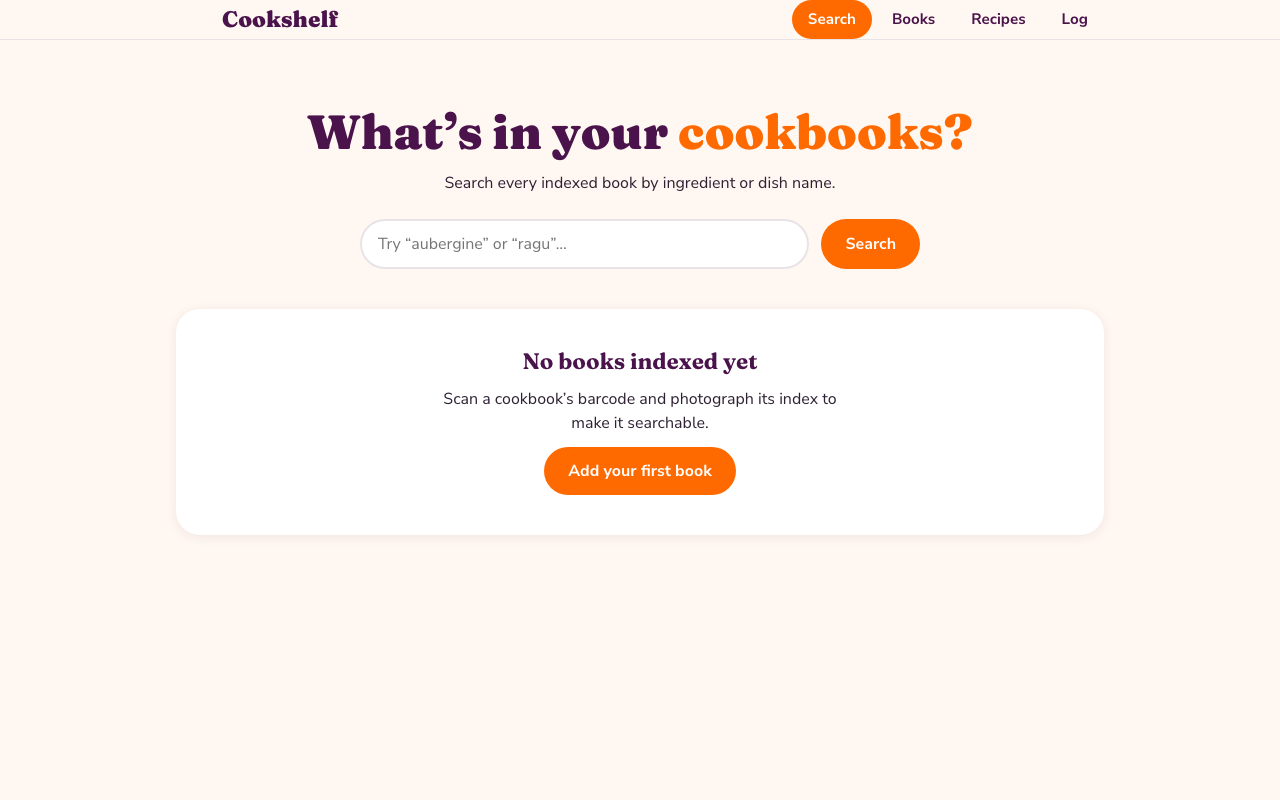
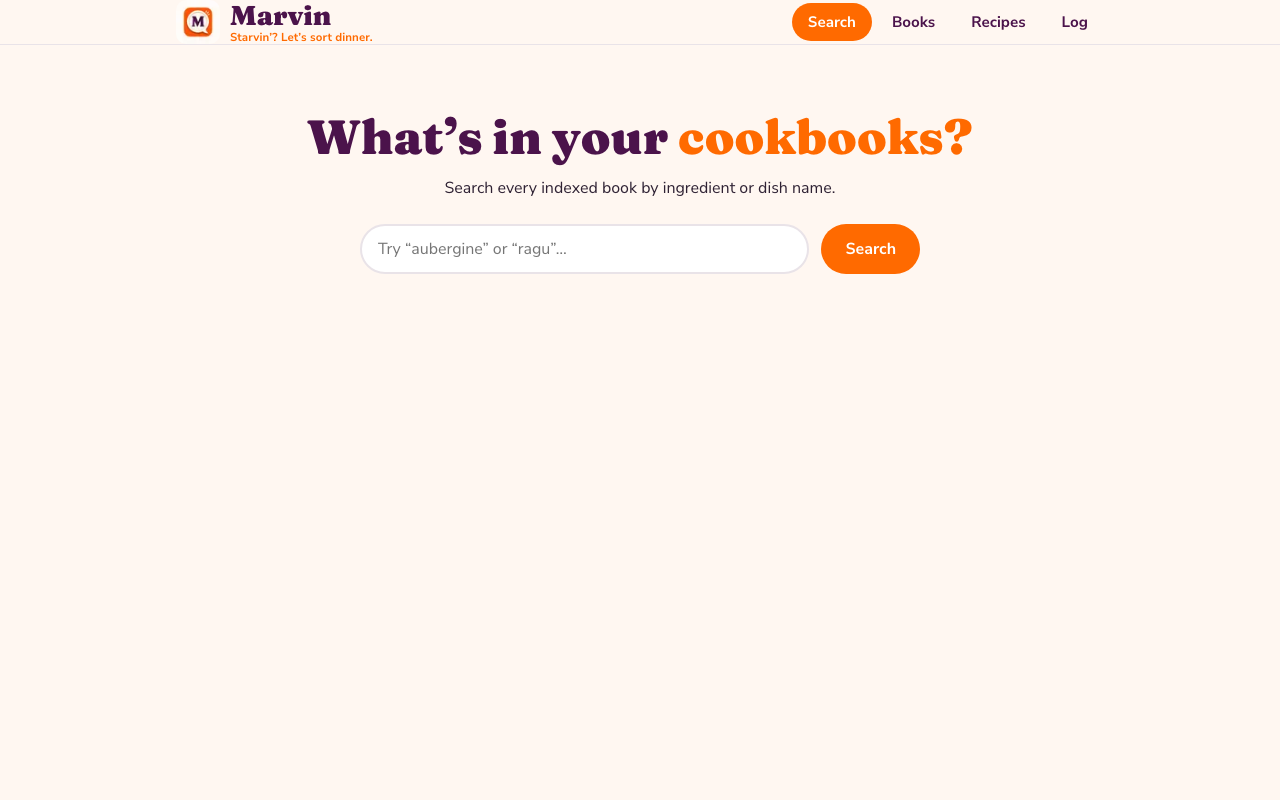
Make Marvin brand more prominent in header with tagline; bump SW cache
🤖 Generated with [Claude Code](https://claude.ai/code)

diff --git a/components/Nav.module.css b/components/Nav.module.css
@@ -27,10 +27,21 @@
 }
 
 .name {
+  display: flex;
+  flex-direction: column;
+  line-height: 1.1;
   font-family: var(--font-heading), Georgia, serif;
   font-weight: 900;
-  font-size: 1.4rem;
+  font-size: 1.7rem;
   color: var(--marvin-plum);
+}
+
+.tagline {
+  font-family: var(--font-body), system-ui, sans-serif;
+  font-size: 0.72rem;
+  font-weight: 700;
+  color: var(--marvin-orange);
+  letter-spacing: 0.01em;
 }
 
 .nav {

diff --git a/components/Nav.tsx b/components/Nav.tsx
@@ -22,11 +22,14 @@ export default function Nav() {
           <Image
             src="/icons/icon-192.png"
             alt="Marvin"
-            width={36}
-            height={36}
+            width={44}
+            height={44}
             className={styles.logo}
           />
-          <span className={styles.name}>Marvin</span>
+          <span className={styles.name}>
+            Marvin
+            <span className={styles.tagline}>Starvin&rsquo;? Let&rsquo;s sort dinner.</span>
+          </span>
         </Link>
         <nav className={styles.nav}>
           {links.map((l) => {

diff --git a/public/sw.js b/public/sw.js
@@ -1,4 +1,4 @@
-const STATIC_CACHE = "marvin-static-v1";
+const STATIC_CACHE = "marvin-static-v2";
 const STATIC_ASSETS = ["/manifest.json", "/icons/icon-192.png", "/icons/icon-512.png"];
 
 self.addEventListener("install", (event) => {